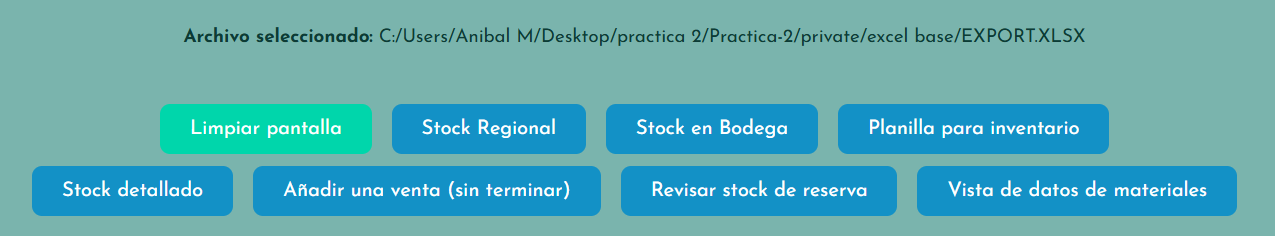
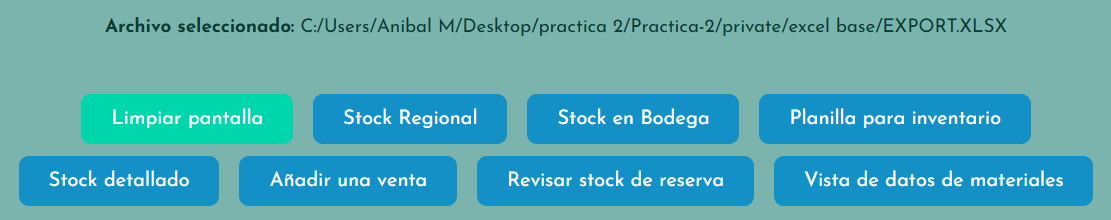
añadido, modificar diccionarios
los diccionarios ahora se pueden modificar con archivos oficiales en el caso de las ubicaciones y de los precios

Changed region(s): [[0.0, 0.6818, 1.0, 0.9545], [0.0612, 0.4091, 0.9487, 0.6545], [0.0918, 0.0818, 0.9181, 0.1909]]

diff --git a/templates/diccionario_mod.html b/templates/diccionario_mod.html
@@ -183,7 +183,6 @@
         {% else %}
         <p style="font-size:13px; color:#1a3c38;">
             Columna <strong>A</strong> = códigos · Columna <strong>B</strong> = valores
-            (fila 1 = encabezados, ignorada).
         </p>
         {% endif %}
         <form action="{{ url_for('diccionario_importar') }}" method="POST"
@@ -196,6 +195,35 @@
             <button class="bt bt-guardar" type="submit">📥 Importar</button>
         </form>
     </div>
+
+    {% if dic_nombre in ['precios', 'ubicaciones'] %}
+    <!-- SECCIÓN IMPORTAR ARCHIVO OFICIAL -->
+    <div class="seccion-formulario">
+        <h2>📋 Importar desde archivo oficial SAP</h2>
+        {% if dic_nombre == 'precios' %}
+        <p style="font-size:13px; color:#1a3c38;">
+            Sube el archivo oficial de precios exportado desde SAP.<br>
+            Formato esperado: Col <strong>A</strong> = Código material · Col <strong>D</strong> = Nuevo precio.
+        </p>
+        {% else %}
+        <p style="font-size:13px; color:#1a3c38;">
+            Sube el archivo oficial de ubicaciones exportado desde SAP<br>
+            Formato esperado: Col <strong>A</strong> = Código material · Col <strong>C</strong> = Almacén · Col <strong>D</strong> = Ubicación.
+        </p>
+        {% endif %}
+        <form action="{{ url_for('diccionario_importar_oficial') }}" method="POST"
+              enctype="multipart/form-data" class="form-agregar"
+              onsubmit="return confirm('¿Confirmas la importación desde el archivo oficial? Esto actualizará las entradas existentes.');">
+            <input type="hidden" name="dic_nombre" value="{{ dic_nombre }}">
+            <div class="form-fila">
+                <label for="archivo-oficial">Archivo oficial .xlsx:</label>
+                <input type="file" name="archivo_oficial" id="archivo-oficial" accept=".xlsx" required>
+            </div>
+            <button class="bt bt-guardar" type="submit">📋 Importar archivo oficial</button>
+        </form>
+    </div>
+    {% endif %}
+
 
     <div class="footer">
         <p>© 2026 - Práctica 2 - Python y HTML - Anibal Alexis Muñoz Reyes - UNAB</p>

diff --git a/front_flask.py b/front_flask.py
@@ -614,6 +614,121 @@ def _dic_importar_excel_flexible(file_bytes: bytes, nombre: str) -> dict:
     return resultado
 
 
+# ─── PARSEO DE ARCHIVOS OFICIALES ────────────────────────────────────────────
+
+def _parsear_archivo_oficial_precios(file_bytes: bytes) -> dict:
+    """
+    Extrae el diccionario de precios desde el archivo oficial de SAP.
+
+    Formato esperado del archivo oficial de precios:
+        Fila 1 (encabezado, se ignora):
+            Col A = 'Material'
+            Col B = 'Texto breve de material'
+            Col C = 'UM'
+            Col D = 'Nuevos precios'
+            Col E = 'Valido Hasta'
+        Filas siguientes (datos):
+            Col A = Código de material  →  clave del diccionario
+            Col D = Precio (numérico)   →  valor del diccionario
+
+    TODO: Ajusta aquí la lógica de extracción según el formato real
+          del archivo oficial que recibes (columnas, filtros, formato del precio, etc.)
+    """
+    buffer = io.BytesIO(file_bytes)
+    excel = openpyxl.load_workbook(buffer)
+    hoja = excel.active
+    resultado = {}
+
+    # TODO: implementar lógica real de extracción
+    # Ejemplo de estructura base (ajustar columnas/filtros según necesidad):
+    for i in range(2, hoja.max_row + 1):
+        codigo = hoja.cell(row=i, column=1).value   # Col A: código material
+        precio  = hoja.cell(row=i, column=4).value  # Col D: nuevo precio
+        if codigo is not None:
+            resultado[str(codigo)] = str(precio) if precio is not None else ""
+
+    return resultado
+
+
+def _parsear_archivo_oficial_ubicaciones(file_bytes: bytes) -> dict:
+    """
+    Extrae el diccionario de ubicaciones desde el archivo oficial de SAP.
+
+    Formato esperado del archivo oficial de ubicaciones:
+        Fila 1 (encabezado, se ignora):
+            Col A = 'MARD.MATNR  Número de material'
+            Col B = 'MARD.WERKS  Centro'
+            Col C = 'MARD.LGORT  Almacén'
+            Col D = 'MARD.LGPBE  Ubicación'
+            (Cols E en adelante: fórmulas/datos auxiliares, se ignoran)
+        Filas siguientes (datos):
+            Col A = Código de material  →  clave del diccionario
+            Col C = Almacén (ej. 'M501')
+            Col D = Ubicación            →  valor del diccionario
+
+    TODO: Ajusta aquí los filtros necesarios, por ejemplo:
+          - Filtrar solo filas donde Col C == 'M501'
+          - Decidir qué hacer si un mismo código tiene múltiples ubicaciones
+          - Ignorar filas con ubicación vacía o '99ZZ99ZZ99'
+
+    """
+    buffer = io.BytesIO(file_bytes)
+    excel = openpyxl.load_workbook(buffer)
+    hoja = excel.active
+    resultado = {}
+
+    # TODO: implementar lógica real de extracción
+    # Ejemplo de estructura base (ajustar filtros según necesidad):
+    for i in range(2, hoja.max_row + 1):
+        codigo   = hoja.cell(row=i, column=1).value  # Col A: código material
+        almacen  = hoja.cell(row=i, column=3).value  # Col C: almacén
+        ubicacion = hoja.cell(row=i, column=4).value  # Col D: ubicación
+        if str(almacen) == 'M501' and codigo is not None:
+            resultado[str(codigo)] = str(ubicacion) if ubicacion is not None else ""
+
+    return resultado
+
+
+@front_flask.route('/diccionario_mod/importar_oficial', methods=['POST'])
+def diccionario_importar_oficial():
+    """
+    Recibe un archivo oficial (de SAP u otro sistema) y lo parsea
+    usando la función específica para el diccionario seleccionado.
+    Solo está disponible para 'precios' y 'ubicaciones'.
+    """
+    nombre = _validar_nombre(request.form.get('dic_nombre', 'ubicaciones'))
+    archivo = request.files.get('archivo_oficial')
+
+    if nombre not in ('precios', 'ubicaciones'):
+        session['alerta'] = "⚠ La importación de archivo oficial solo aplica a Precios y Ubicaciones."
+        return redirect(url_for('diccionario_mod', dic=nombre))
+
+    if not archivo or archivo.filename == '':
+        session['alerta'] = "Error: no se seleccionó ningún archivo oficial."
+        return redirect(url_for('diccionario_mod', dic=nombre))
+
+    try:
+        file_bytes = archivo.read()
+        if nombre == 'precios':
+            nuevas = _parsear_archivo_oficial_precios(file_bytes)
+        else:  # ubicaciones
+            nuevas = _parsear_archivo_oficial_ubicaciones(file_bytes)
+
+        if not nuevas:
+            session['alerta'] = "⚠ El archivo oficial no retornó ningún dato. Revisa la función de parseo."
+            return redirect(url_for('diccionario_mod', dic=nombre))
+
+        ruta_excel = session.get('ruta')
+        dic = _obtener_diccionario(nombre)
+        dic.update(nuevas)
+        _guardar_en_diccionario_py()
+        session['alerta'] = f"✔ Importación oficial exitosa: {len(nuevas)} entradas cargadas en {nombre}."
+    except Exception as e:
+        session['alerta'] = f"Error al importar archivo oficial: {e}"
+
+    return redirect(url_for('diccionario_mod', dic=nombre))
+
+
 @front_flask.route('/diccionario_mod', methods=['GET'])
 def diccionario_mod():
     nombre = _validar_nombre(request.args.get('dic', 'ubicaciones'))
